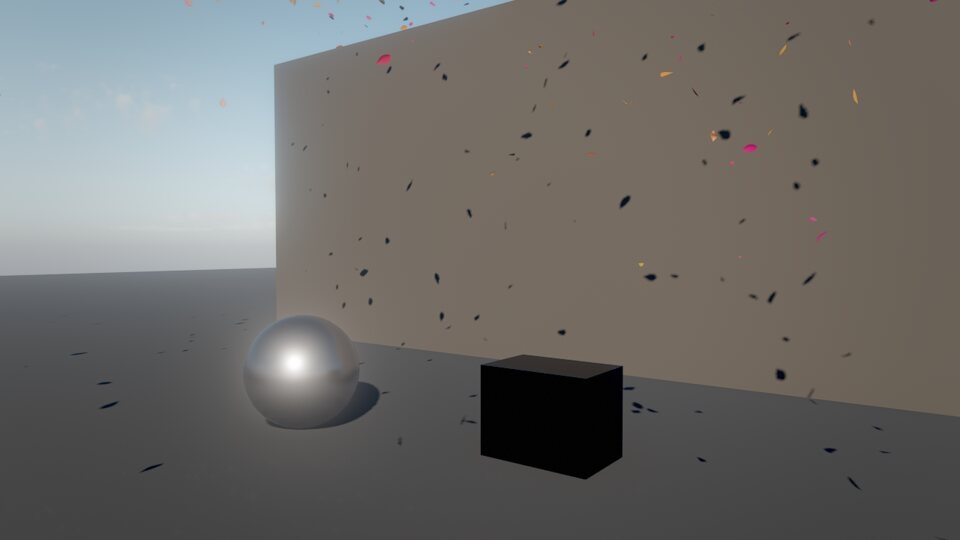
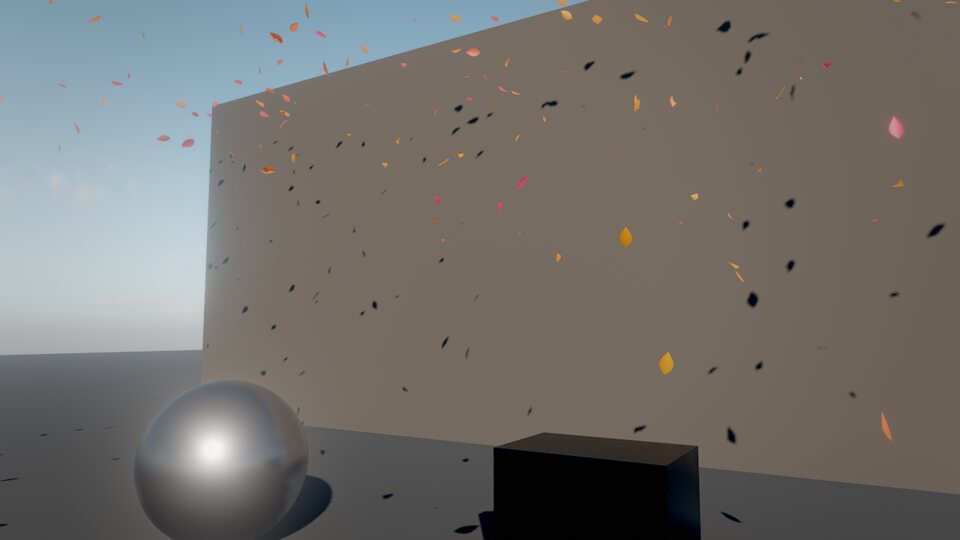
docs: HAIR_AND_VFX.md with look-dev stills and GPU timings; fx_create lists GPU presets

diff --git a/media/demo/hair_vfx.py b/media/demo/hair_vfx.py
@@ -170,10 +170,10 @@ def bust(s, groom=None, overrides=None, hair_color=None):
         print("  groom:", {k: info.get(k) for k in ("strands", "guides", "generateMs", "gpuMemoryMB", "error")}, flush=True)
 
 
-def lights(s, rim="#9fc4ff", warm="#ffb070"):
+def lights(s, rim="#e8eeff", warm="#ffb070"):
     s.call("batch", label="lights", operations=[
         {"tool": "entity_create", "args": {"name": "Rim Light", "position": [-0.45, 1.95, -0.7],
-                                           "components": {"light": {"kind": "point", "color": rim, "intensity": 6, "range": 4}}}},
+                                           "components": {"light": {"kind": "point", "color": rim, "intensity": 4, "range": 4}}}},
         {"tool": "entity_create", "args": {"name": "Kicker", "position": [0.8, 1.5, -0.6],
                                            "components": {"light": {"kind": "point", "color": warm, "intensity": 1.2, "range": 4}}}},
     ])
@@ -184,7 +184,7 @@ if wanted("hair"):
     looks = [
         ("hair_wavy", {"melanin": 0.7, "redness": 0.15}, "hair_wavy_brunette"),
         ("hair_straight", {"melanin": 0.18, "redness": 0.2, "length": 0.4}, "hair_straight_blond"),
-        ("hair_curly", {"melanin": 0.95, "redness": 0.1}, "hair_curly_black"),
+        ("hair_curly", {"melanin": 0.88, "redness": 0.15}, "hair_curly_black"),
         ("hair_wavy", {"melanin": 0.5, "redness": 0.92, "wave": 0.02, "length": 0.32}, "hair_wavy_ginger"),
         ("hair_ponytail", {"melanin": 0.4, "redness": 0.3}, "hair_ponytail"),
     ]
@@ -288,7 +288,7 @@ if wanted("vfx"):
         ("vfx_fireworks", "fireworks", [0, 0, -12], {}, True, [0, 3, 20], [0, 10, -12], 6),
         ("vfx_magic_vortex", "magic_vortex", [0, 0, 0], {}, True, [3.2, 1.9, 4.2], [0, 1.4, 0], 3),
         ("vfx_ember_storm", "ember_storm", [0, 1, 0], {}, True, [5, 2, 7], [0, 2, 0], 4),
-        ("vfx_falling_leaves", "falling_leaves", [0, 6, 0], {}, False, [3.4, 1.6, 4.6], [0, 1.4, 0], 12),
+        ("vfx_falling_leaves", "falling_leaves", [0, 4.5, 1.5], {}, False, [2.2, 1.3, 3.6], [0, 1.7, 0], 12),
         ("vfx_snow_heavy", "snow_heavy", [0, 12, 0], {}, False, [6, 2.2, 8], [0, 1.2, 0], 6),
         ("vfx_rain_heavy", "rain_heavy", [0, 0, 0], {}, "rain", [4.5, 1.6, 6], [0, 0.6, 0], 3),
         ("vfx_smoke_column", "smoke_column_gpu", [0, 0, -1], {}, False, [9, 3.5, 13], [0, 5, 0], 10),

diff --git a/engine/src/fx/Groom.cpp b/engine/src/fx/Groom.cpp
@@ -1163,10 +1163,10 @@ Json groomPreset(const std::string& name) {
             "clumps":700,"clumpStrength":0.55,"clumpShape":1.4,"frizz":0.0025,"frizzScale":30,"maskDirection":[0,0.8,-0.6],
             "maskAngle":95,"maskSoftness":10,"melanin":0.55,"redness":0.35,"roughness":0.33,"radialRoughness":0.7,
             "stiffness":0.4})"},
-        {"hair_curly", R"({"strands":90000,"segments":31,"length":0.24,"lengthVariation":0.25,"widthRoot":0.09,
-            "widthTip":0.05,"direction":[0,0.2,-1],"directionBlend":0.6,"gravity":0.35,"curlRadius":0.011,"curlFrequency":16,
-            "clumps":1100,"clumpStrength":0.8,"clumpShape":0.7,"frizz":0.0035,"frizzScale":40,"maskDirection":[0,0.8,-0.6],
-            "maskAngle":95,"maskSoftness":10,"melanin":0.93,"redness":0.15,"roughness":0.42,"radialRoughness":0.8,
+        {"hair_curly", R"({"strands":90000,"segments":31,"length":0.3,"lengthVariation":0.25,"widthRoot":0.09,
+            "widthTip":0.05,"direction":[0,0.2,-1],"directionBlend":0.6,"gravity":0.55,"curlRadius":0.011,"curlFrequency":16,
+            "clumps":1100,"clumpStrength":0.8,"clumpShape":0.7,"frizz":0.0015,"frizzScale":40,"maskDirection":[0,0.8,-0.6],
+            "maskAngle":95,"maskSoftness":10,"melanin":0.88,"redness":0.15,"roughness":0.45,"radialRoughness":0.8,"specular":0.6,
             "stiffness":0.6})"},
         {"hair_ponytail", R"({"ponytail":true,"ponytailPosition":[0,0.035,-0.108],"strands":90000,"segments":28,
             "length":0.5,"lengthVariation":0.12,"widthRoot":0.075,"widthTip":0.04,"direction":[0,0.2,-1],"directionBlend":0.95,

diff --git a/engine/src/agent/FxTools.cpp b/engine/src/agent/FxTools.cpp
@@ -30,7 +30,10 @@ void addFxTools(Engine& engine, ToolRegistry& reg) {
              "Create an effect or a body of water from a preset, ready to tweak. Volumetric fluid simulations (GPU, "
              "ray-marched, film-quality fire and smoke): volume_fire, volume_torch, volume_smoke, steam_vent, "
              "explosion_volume. Particles: fire (sprite), embers, smoke, steam, sparks, rain, snow, mist, spray, dust, "
-             "fireflies, magic, fireball, debris_smoke, shrapnel. Composites (volumetric fire + embers + light): "
+             "fireflies, magic, fireball, debris_smoke, shrapnel. GPU particles (millions, depth collisions, sub-emitters, "
+             "ribbons, mesh particles; visuals only): sparks_shower, fireworks, rain_heavy, waterfall_mist (composites), "
+             "ember_storm, magic_vortex, dust_storm, falling_leaves (~6 m up), snow_heavy (~12 m up), smoke_column_gpu. "
+             "Composites (volumetric fire + embers + light): "
              "campfire, torch, burning_barrel, explosion; sprite_campfire is the cheap particle version. Water (FFT ocean "
              "simulation): ocean, calm_sea, storm, lake, pool, puddle — the entity's y is the water level. `overrides` patches "
              "the particles/water fields (e.g. {\"rate\": 80, \"colorStart\": \"#7af\"}). Fires light the scene by "

diff --git a/engine/src/fx/Particles.cpp b/engine/src/fx/Particles.cpp
@@ -451,7 +451,7 @@ const Preset kParticlePresets[] = {
         "lifetimeJitter":0.2,"shape":"box","shapeSize":[16,0,16],"direction":[0,-1,0],"speed":0.3,
         "spread":30,"gravity":1.6,"drag":2.2,"turbulence":1.4,"turbulenceScale":1.8,"wind":0.8,
         "sizeStart":0.14,"sizeEnd":0.14,"sizeJitter":0.35,"colorStart":"#c75b19","colorEnd":"#c75b19",
-        "hueVariation":0.09,"spin":160,"roughness":0.55,"collide":true,"floorHeight":0,
+        "hueVariation":0.05,"spin":160,"roughness":0.55,"collide":true,"floorHeight":0,
         "depthCollision":true,"stick":true,"maxParticles":8000})"},
     {"snow_heavy", R"({"simulation":"gpu","look":"snow","rate":12000,"lifetime":14,"lifetimeJitter":0.2,"shape":"box",
         "shapeSize":[44,0,44],"direction":[0,-1,0],"speed":0.9,"spread":20,"gravity":1.4,"drag":1.4,

diff --git a/docs/HAIR_AND_VFX.md b/docs/HAIR_AND_VFX.md
@@ -1,0 +1,220 @@
+# Hair, fur and GPU particles
+
+Two GPU effects systems for film-style characters and large-scale visual effects:
+
+- **Strand hair and fur** (`groom` component): real strands grown on a mesh or loaded from a
+  file, simulated on the GPU and rendered with a Marschner shading model, deep-opacity
+  self-shadowing and a multiple-scattering approximation.
+- **GPU particles** (`particles` with `simulation: "gpu"`): compute-shader particles with
+  millions per emitter, collisions against everything on screen, sub-emitters, ribbons, lit mesh
+  particles and flipbooks, drawn with indirect draws (no CPU readback).
+
+Everything is driven by reflected component fields, so agents, the editor and Wander use the
+same knobs. All images below were rendered by the engine through its MCP tools
+(`media/demo/hair_vfx.py`).
+
+![Wavy brunette hair](images/hair_wavy_brunette.jpg)
+
+| | | |
+|---|---|---|
+| ![](images/hair_straight_blond.jpg) | ![](images/hair_curly_black.jpg) | ![](images/hair_wavy_ginger.jpg) |
+| ![](images/hair_ponytail.jpg) | ![](images/hair_wavy_brunette_back.jpg) | ![](images/hair_wavy_brunette_wind.jpg) |
+
+![Fur](images/fur_creature.jpg)
+
+---
+
+## Hair and fur (`groom`)
+
+### Quick start for agents
+
+```jsonc
+// A head of wavy auburn hair on an entity with a mesh (a sphere head works too).
+groom_create {"entity": "Head", "preset": "hair_wavy", "overrides": {"melanin": 0.5, "redness": 0.6}}
+// Change the style; geometry fields regenerate, color/motion fields apply instantly.
+groom_update {"entity": "Head", "fields": {"curlRadius": 0.01, "curlFrequency": 16, "length": 0.3}}
+// Strand / guide / point counts, memory and the measured GPU cost.
+groom_info   {"entity": "Head"}
+// Rest pose to a file for DCC round trips (.hair, .groom.json, .skygroom).
+groom_export {"entity": "Head", "path": "grooms/head.hair"}
+```
+
+Presets: `hair_straight`, `hair_wavy`, `hair_curly`, `hair_ponytail`, `hair_short` (heads: they
+grow on the upper back of the mesh), `fur_short`, `fur_long` (cover the whole mesh).
+
+### How a groom is built
+
+1. **Placement.** Roots are sampled area-weighted on the mesh (the entity's own mesh, or
+   `target`'s). The density mask combines a cone (`maskDirection`, `maskAngle`,
+   `maskSoftness` = hairline width) with an optional vertex-color channel (`maskChannel`), so
+   a painted scalp works. Vertex colors also tint a mesh's surface, so the usual setup is an
+   invisible copy of the head with the painted scalp as `target` (see the bust in
+   `media/demo/hair_vfx.py`).
+2. **Guides** (`guides`, default ~4·√strands) are grown along the surface: from the normal
+   toward the comb `direction` projected onto the scalp (`directionBlend`), drooping with
+   `gravity`, and kept outside the actual mesh (nearest-vertex tangent planes) so long hair
+   drapes over the head. `ponytail` combs every guide to `ponytailPosition` first, then lets
+   them hang as one bundle.
+3. **Children** (`strands`) interpolate their 3 nearest guides (inverse-distance weights) and
+   add, in the guide curve's parallel-transport frame: clumping toward clump centers
+   (`clumps`, `clumpStrength`, `clumpShape`), helical curls (`curlRadius`, `curlFrequency`),
+   waves (`wave`, `waveFrequency`) and frizz (`frizz`, `frizzScale`). Strands in one clump
+   share their curl phase, so curly hair forms ringlets.
+4. The result is cached per parameter hash (geometry fields, mesh, entity scale, source file
+   time). Generation is deterministic and multi-threaded (~0.3–0.7 s for 100k strands).
+
+Grooms are generated in **meters** on the scaled mesh: an entity scaled to head size does not
+shrink its hair. Lengths are in meters, widths in millimeters (human hair 0.05–0.1 mm).
+
+### Files
+
+| Format | Notes |
+|---|---|
+| `.hair` | Cem Yuksel's HAIR format (binary): segments, points, thickness arrays. Many public groom datasets and DCC exporters use it. |
+| `.groom.json` | `{"format":"skywalker-groom","version":1,"strands":[[x,y,z,...],...],"widths":[mm,...]?}` |
+| `.skygroom` | `SKYGROOM` magic, u32 version (1), u32 strands, u32 points per strand, u32 flags (bit 0: widths), then floats. |
+
+Set `source` to load one (`importScale` 0.01 for centimeters, `importZUp` for Z-up files);
+`strands` then caps the count (a uniform subset). Imported strands keep their exact shape; a
+subset becomes the simulated guides.
+
+### Simulation
+
+Guides are simulated on the GPU every frame (one thread per guide, substeps at 120 Hz):
+Verlet integration with gravity and gusting environment wind (`wind`), global shape stiffness
+toward the groomed pose (strong at the roots, `rootStiffness`), local shape stiffness (each
+segment keeps its rest angle relative to its parent, `stiffness`), follow-the-leader length
+constraints (inextensible strands) and collisions with spheres, capsules and planes: the
+scalp's own proxy plus `colliders` (comma-separated entity names, e.g. `"Torso, Neck"`).
+Children follow their guides through the stored frame offsets. `simulate: false` keeps the
+groomed shape (it still follows the entity's transform).
+
+### Shading and rendering
+
+- **Strands**: every strand is an instanced triangle strip expanded to a camera-facing ribbon.
+  Strands thinner than a pixel are drawn ~1 px wide with proportionally lower coverage; the
+  coverage becomes a stochastic MSAA sample mask that changes every frame and sub-sample, so
+  thin hair resolves smoothly under TAA and in accumulated stills (no sorting needed).
+- **Marschner BSDF** (Karis 2016 real-time fit): R (white primary highlight, shifted by
+  `cuticleTilt`), TT (light through the strand: backlit glow) and TRT (colored secondary
+  highlight) lobes with longitudinal Gaussians (`roughness`) and azimuthal terms
+  (`radialRoughness`), plus a multiple-scattering term (`scatter`) that tints light which went
+  through many strands.
+- **Color is physically based**: `melanin` (eumelanin + pheomelanin amount) and `redness`
+  give an absorption coefficient (d'Eon / Chiang); `dye`, `rootColor` and `tipColor` add
+  absorption, so dyed hair keeps a white highlight. Melanin guide: 0.1 platinum, 0.2 blond,
+  0.35 dark blond, 0.5 light brown, 0.7 brown, 0.85 dark brown, 0.95+ black.
+- **Self-shadowing**: a deep opacity map per groom from the sun (front hair depth + 4
+  cumulative density layers, 512²), plus the depth of the opaque meshes around the groom (the
+  head shadows the hair). Light through light hair is tinted (dual-scattering approximation).
+  External occluders come from the regular cascades, looked up at the groom's sun-facing
+  surface so hair is not shadowed twice.
+- **Shadows on the scene**: hair is drawn into the sun cascades with stochastic coverage, so
+  the face and shoulders get soft hair shadows.
+- **G-buffer**: hair writes albedo, its shading normal and a hair flag; screen-space GI,
+  reflections and SSAO leave those pixels alone (hair has its own ambient and occlusion).
+- **Level of detail**: `lod: auto` draws strands up close and cards far away (`cardsBelow`
+  pixels: guide strands as wide ribbons with procedural strand alpha); in real time the strand
+  count follows the groom's size on screen (fewer, more opaque strands), while stills
+  (`viewport_capture` with `samples` > 1) always draw every strand.
+
+### Recipes
+
+| Look | Settings |
+|---|---|
+| Long glossy black hair | `hair_straight`, `melanin` 0.97, `roughness` 0.22, `length` 0.5, `stiffness` 0.3 |
+| Beach waves, sun-bleached | `hair_wavy`, `melanin` 0.35, `tipColor` "#fff0d8", `wave` 0.018 |
+| Tight curls / coils | `hair_curly`, `curlRadius` 0.006, `curlFrequency` 30, `clumps` 2000, `segments` 31 |
+| Copper red | `melanin` 0.5, `redness` 0.9 |
+| Pastel dye | `melanin` 0.15, `dye` "#ffb0d8" |
+| Dark roots, blond lengths | `melanin` 0.2, `rootColor` "#5a4030" |
+| Ponytail | `hair_ponytail`; move `ponytailPosition` (mesh space, just outside the scalp) |
+| Buzz cut / stubble | `hair_short`, `length` 0.006–0.02, `simulate` false |
+| Cat / fox fur | `fur_short`, `strands` 150k–300k, `length` 0.015–0.03, `direction` toward the tail, body mesh color close to the fur color |
+| Fluffy tail | `fur_long` on a capsule, `length` 0.08–0.12, `tipColor` "#ffffff" |
+| Hair in the wind | `environment_update {windSpeed: 6}`; `wind` on the groom scales it |
+| Hair over shoulders | `colliders: "Torso, Neck"` |
+
+---
+
+## GPU particles (`particles` with `simulation: "gpu"`)
+
+![Sparks](images/vfx_sparks_shower.jpg)
+
+| | | |
+|---|---|---|
+| ![](images/vfx_fireworks.jpg) | ![](images/vfx_magic_vortex.jpg) | ![](images/vfx_ember_storm.jpg) |
+| ![](images/vfx_falling_leaves.jpg) | ![](images/vfx_snow_heavy.jpg) | ![](images/vfx_rain_heavy.jpg) |
+
+The CPU particle path stays the deterministic gameplay simulation (countable, replayable). The
+GPU path is for visuals: same component, same looks, plus:
+
+| Feature | Fields |
+|---|---|
+| Emission | `rate` (up to millions/s), `burst`, `fx_burst` / Wander `burst()`; shapes `point`, `sphere`, `box`, `disc`, `cone`, `mesh` (area-weighted surface of `shapeMesh` or the entity's mesh; particles leave along the normal) |
+| Forces | gravity, drag toward the moving air, environment `wind`, **curl noise** (`turbulence`, `turbulenceScale`: 2 octaves of analytic gradient-noise curl, divergence free), force `field`: `vortex` (swirl around `fieldAxis` with `fieldPull` / `fieldLift`), `attractor`, or `texture` (a 3D vector field from an `.fga` file over `fieldSize`) |
+| Collisions | `collide` floor plane, `colliders` (entity names: spheres, planes, capsules), **`depthCollision`**: everything visible collides through the scene depth and G-buffer normals. Response: `bounce` (+ `friction`), `stick`, or die |
+| Sub-emitters | `subEmitter` (another gpu emitter by name), `subEmitOn` `death` / `collision` / `both`, `subEmitCount`, `subEmitInherit`. Requests are passed on the GPU in the same frame (sparks → embers, rockets → bursts, rain → splashes); `hueVariation` gives each burst its own color |
+| Curves | `colorGradient` (`"#rrggbbaa@t ..."`), `sizeCurve`, `opacityCurve` (`"value@t ..."`), baked into 32-entry tables |
+| Facing | `camera`, `velocity` (stretched by `stretch`), `horizontal` (ripples, decals), `ribbon` (trails from a per-particle history ring: `trailLength`, `trailSegments`), `mesh` (instanced meshes lit by the standard surface shader and casting shadows: `mesh` = primitive, asset or built-in `fx:leaf`, `fx:shard`, `fx:pebble`; `roughness`, `metallic`) |
+| Looks | `glow`, `flame`, `smoke`, `spark`, `rain`, `snow`, `mist` and `sprite` (`texture` sheet with `flipbookColumns` / `flipbookRows` / `flipbookFps`; neighbouring frames cross-fade). Lit looks receive the sun with shadows, the sky and the strongest lights; soft against geometry; premultiplied alpha |
+| Sorting | blended looks are sorted back to front on the GPU (bitonic sort; `sort: false` to skip) |
+| Light | `light` > 0: the GPU reduces the live particles to up to 4 clustered point lights, read back asynchronously (a frame or two late, never stalling) |
+| TAA | particles write a reactive mask; the temporal resolve trusts the current frame there, so fast sparks and rain don't leave ghost trails |
+
+Pipeline per emitter and frame: emit (dead list → alive list) → simulate (indirect dispatch on
+the GPU alive count) → finalize (indirect draw arguments) → optional sort and light reduction.
+Pools, lists and counters live on the GPU; nothing is allocated per frame.
+
+### Presets (`fx_create`)
+
+Single emitters: `ember_storm`, `magic_vortex`, `dust_storm`, `falling_leaves` (place ~6 m up),
+`snow_heavy` (place ~12 m up), `smoke_column_gpu`, and building blocks `sparks_gpu`, `embers_gpu`,
+`rain_gpu`, `splashes_gpu`, `rockets_gpu`, `firework_burst_gpu`, `mist_gpu`, `droplets_gpu`.
+Composites (wired with sub-emitters): `sparks_shower`, `fireworks`, `rain_heavy`,
+`waterfall_mist`.
+
+### Recipes
+
+| Effect | How |
+|---|---|
+| Grinder sparks bouncing off props | `sparks_shower` near the props (depth collision is on); aim with the Sparks child's `direction` |
+| Tornado | `magic_vortex` with `look` `smoke`, `facing` `camera`, `fieldLift` 3, `colorStart` dust brown, `rate` 4000 |
+| Paint splatter that sticks | `stick: true`, `depthCollision: true`, `look` `glow` small `sizeStart` |
+| Leaves blowing past | `falling_leaves` 6 m up, `environment_update {windSpeed: 5}` |
+| Rain with splashes on roofs | `rain_heavy` (splashes come from depth collisions anywhere) |
+| Magic trail on a moving object | parent a gpu emitter with `facing: ribbon`, `worldSpace: true` to the object |
+| Particles shaped like a mesh | `shape: mesh`, `shapeMesh: "asset:..."`, low `speed` |
+| Vector field from Houdini / EmberGen | `field: texture`, `fieldTexture: "fx/wind.fga"`, `fieldSize` = the exported box |
+| Flipbook explosion | `look: sprite`, `texture` = sheet, `flipbookColumns`/`Rows`, `intensity` > 1 for emissive |
+
+---
+
+## Performance (Apple M1 Pro, 1920×1080, `fx_benchmark` serial mode)
+
+`fx_benchmark` renders frames back to back and reports the GPU time of the frame and of each
+effects pass (`serial: true` waits per frame, so per-pass times don't overlap). Baseline: the
+stage scene (floor, props, sky, TAA, GI/SSR, bloom) costs **7.4 ms** per frame.
+
+| Workload | Frame (GPU) | Simulation |
+|---|---|---|
+| 1,000,000 GPU particles, additive glow, curl noise | 16.2 ms (+8.8 ms) | 3.0 ms |
+| 1,000,000 GPU particles, lit smoke, GPU bitonic sort | 38.1 ms (+30.7 ms, fill rate) | 8.4 ms incl. sort |
+| 100k-strand groom × 25 points, close-up filling the screen (49k strands drawn) | 28.8 ms (+21.4 ms) | 1.4 ms + 6.7 ms deep opacity |
+| same groom, medium shot (20k strands drawn) | 17.5 ms (+10.1 ms) | 0.7 ms + 4.1 ms deep opacity |
+
+Stills (`samples` 16–32) draw every strand. `groom_info` and `fx_stats` report these numbers
+live for a scene; budget hair with `strands`, `segments` and the LOD fields.
+
+## Limits and next steps
+
+- GPU particles are visual only (not deterministic, not visible to gameplay); use the CPU path
+  for anything a game rule depends on.
+- Depth collisions only see what is on screen (the previous frame's depth): particles behind
+  objects or off screen fall through.
+- Hair has no strand-strand collisions (the shape stiffness keeps volume) and collides only
+  with sphere/capsule/plane proxies.
+- One sub-emitter per emitter; a sub-emitter's own sub-emitter chain works up to 4 levels.
+- The deep opacity map covers the sun only; lamps light hair without self-shadowing.
+- Skin subsurface scattering (screen-space) is not done yet; surfaces use the wrap + transmission
+  `subsurface` term.

diff --git a/docs/RENDERING.md b/docs/RENDERING.md
@@ -80,6 +80,9 @@ surfaces are sorted back to front and don't cast shadows.
 
 Particles are simulated by the engine, not the GPU, so they are deterministic in play mode
 (seeded per emitter) and agents can count and test them. They preview live while editing.
+With `simulation: "gpu"` a particles component runs on compute shaders instead: millions of
+particles, depth-buffer collisions, sub-emitters, ribbons, mesh particles and flipbooks (visuals
+only) — see [HAIR_AND_VFX.md](HAIR_AND_VFX.md), which also covers strand hair and fur (`groom`).
 
 | | |
 |---|---|
